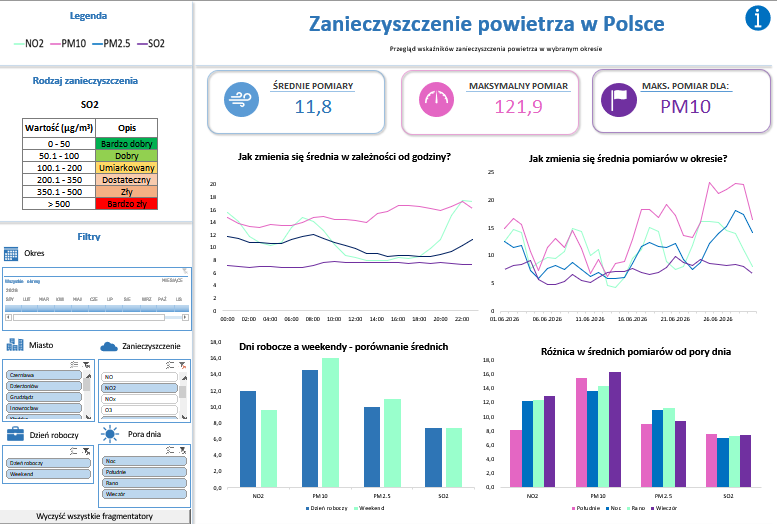
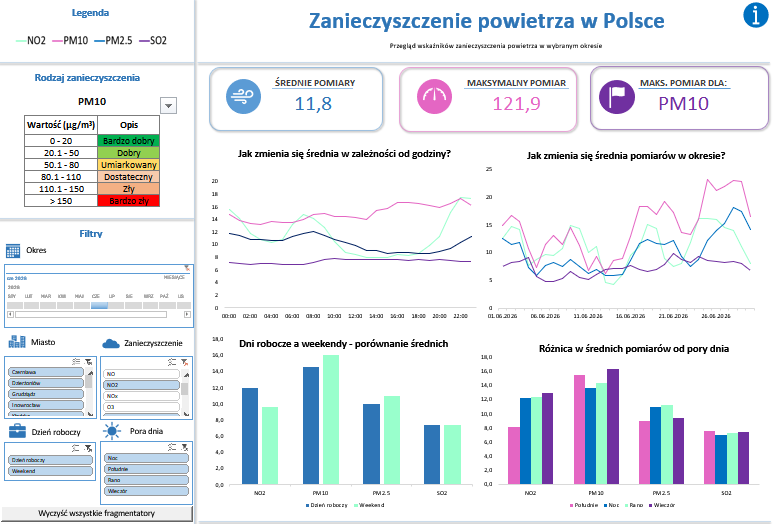
project update

diff --git a/README.md b/README.md
@@ -4,7 +4,7 @@
 
 Niniejsze repozytorium zawiera projekt dotyczący pobierania, przetwarzania oraz analizy danych z API Głównego Inspektoratu Ochrony Środowiska (GIOŚ). Projekt składa się z czterech głównych etapów:
 
-![schemat](screeny/schemat.png)
+![schemat](screeny/schemat_projektu.png)
 
 - **Krok 1:** Pobieranie danych pomiarowych z [API GIOŚ](https://api.gios.gov.pl/pjp-api/swagger-ui/index.html) przy użyciu skryptu Pythona - [api_request.py](pliki_python/api_request.py).
 
@@ -39,9 +39,19 @@ Projekt umożliwia automatyczne pobieranie danych z API, ich czyszczenie i usuwa
 
 ![Dashboard](screeny/dashboard.png)
 
+Powyższy dashboard umożliwia analizę oraz wizualizację wcześniej pobranych i przetworzonych danych. Dashboard zawiera wykresy oraz wskaźniki KPI z informacjami o średnich wartościach pomiarów w zależności od godziny, wybranego miesiąca, rodzaju dnia (dzień roboczy lub weekend) oraz pory dnia (np. rano, wieczorem). Wszystkie elementy dashboardu można filtrować za pomocą fragmentatorów znajdujących się po lewej stronie. Fragmentatory można wyczyścić za pomocą przycisku wykorzystujący makro VBA (użyty kod VBA znajduje się [tutaj](dane/kod_vba.md)). 
+
 Plik z dashboardem można pobrać [tutaj](analiza.xlsm).
 
-## 💡 Wnioski
+## 💡 Wnioski - czerwiec 2026
+
+- Średnia wartość pomiarów w czerwcu 2026 r. wyniosła 11,8 µg/m³.
+- Maksymalna zarejestrowana wartość wyniosła 121,9 µg/m³ dla pyłu PM10, co odpowiada złej jakości powietrza. PM10 jest zanieczyszczeniem negatywnie wpływającym na układ oddechowy.
+- Od połowy miesiąca można zaobserwować stopniowy wzrost wartości pomiarów.
+- Średnie wartości dla NO2, PM10, PM2.5 oraz SO2 utrzymywały się na poziomie odpowiadającym kategoriom „Bardzo dobry” lub „Dobry”.
+- N02 osiąga najniższe wartości w południe, PM10 najwyższe w południe i wieczorem, PM2.5 nocą i wieczorem, a SO2 utrzymuje zbliżone wartości na poziomie około 8 µg/m³ o każdej porze dnia. Niemniej, różnice pomiędzy wartościami w tym zakresie dla NO2, PM10 i PM2.5 są niewielkie.
+- Dla zanieczyszczenia PM10 średnie pomiary nieznacznie wzrastają wraz z upływem dnia. Największym zróżnicowaniem i wahaniem w zależności od godziny wyróżnia się NO2.
+- Dla zanieczyszczenia PM10 i PM2.5 średnie wartości pomiarów są nieznacznie większe w weekendy niż w dni robocze, z kolei dla NO2 zależnośc jest odwrotna. SO2 osiąga zbliżone wartości na poziomie około 7 µg/m³ niezależnie od rodzajów dnia. Różnice pomiędzy poszczególnymi dniami są jednak niewielkie.
 
 ## 🖥 Szczegóły techniczne
 - **Narzędzia wykorzystane w projekcie:** 

diff --git a/dane/kod_vba.md b/dane/kod_vba.md
@@ -1,0 +1,27 @@
+```
+Sub Wyczysc_Fragmentatory()
+
+    Dim wb As Workbook
+    Dim sc As SlicerCache
+
+    Set wb = ActiveWorkbook
+
+    Application.ScreenUpdating = False
+    Application.EnableEvents = False
+    ' wyłączenie odświeżenia ekranu i działań (żeby makro działało)
+    
+    ' pętla po wszystkich fragmentatorach
+    For Each sc In wb.SlicerCaches
+        
+        sc.ClearAllFilters ' wyczyść fragmentator
+
+    Next sc
+
+    Application.EnableEvents = True
+    Application.ScreenUpdating = True
+
+
+    MsgBox "Wyczyszczono wszystkie filtry fragmentatorów i osi czasu."
+
+End Sub
+```
